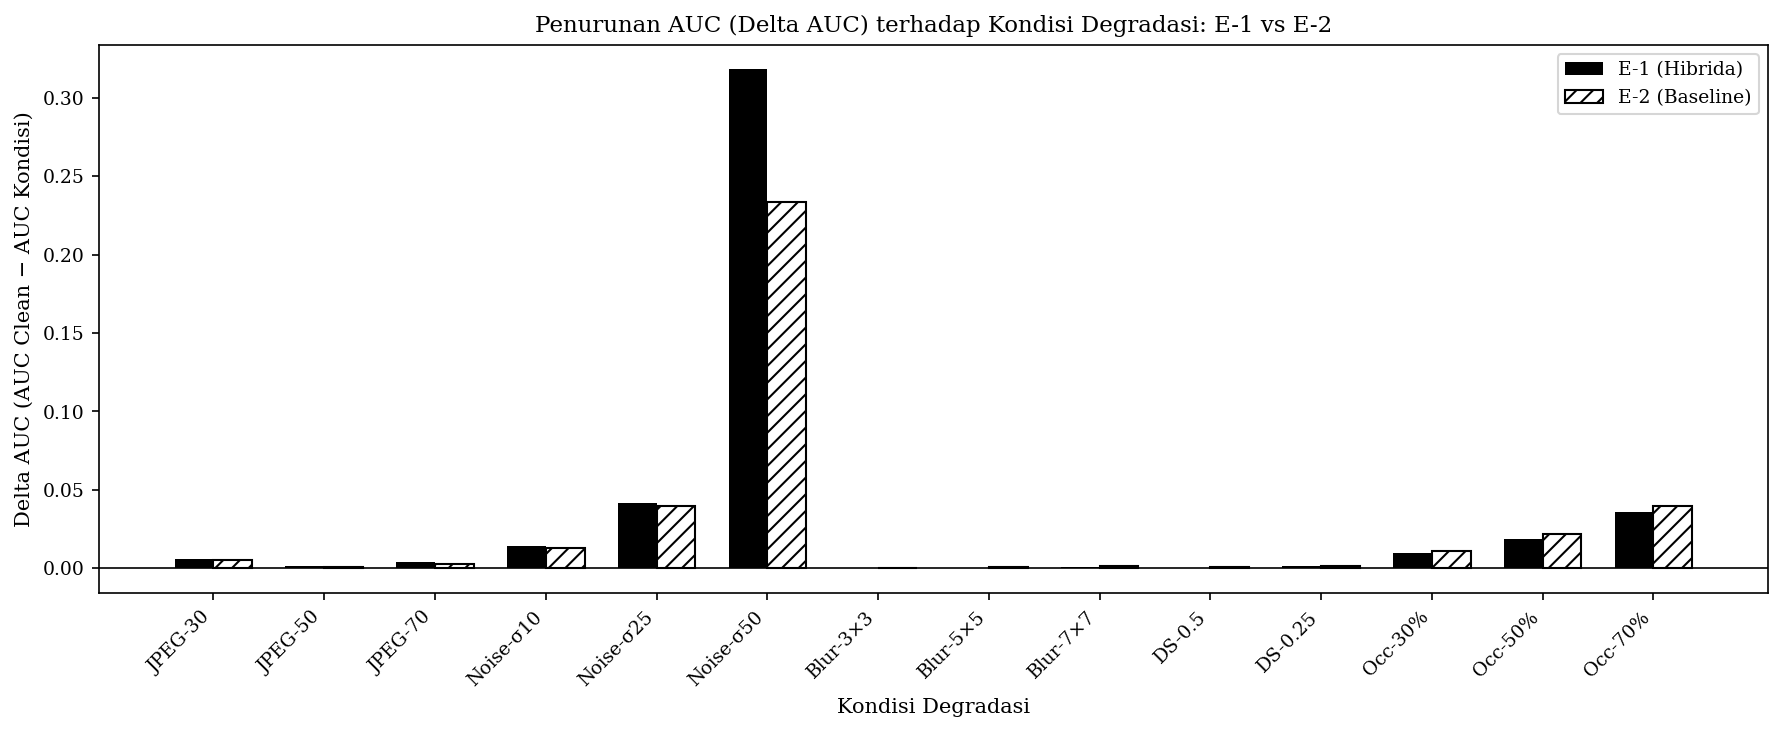
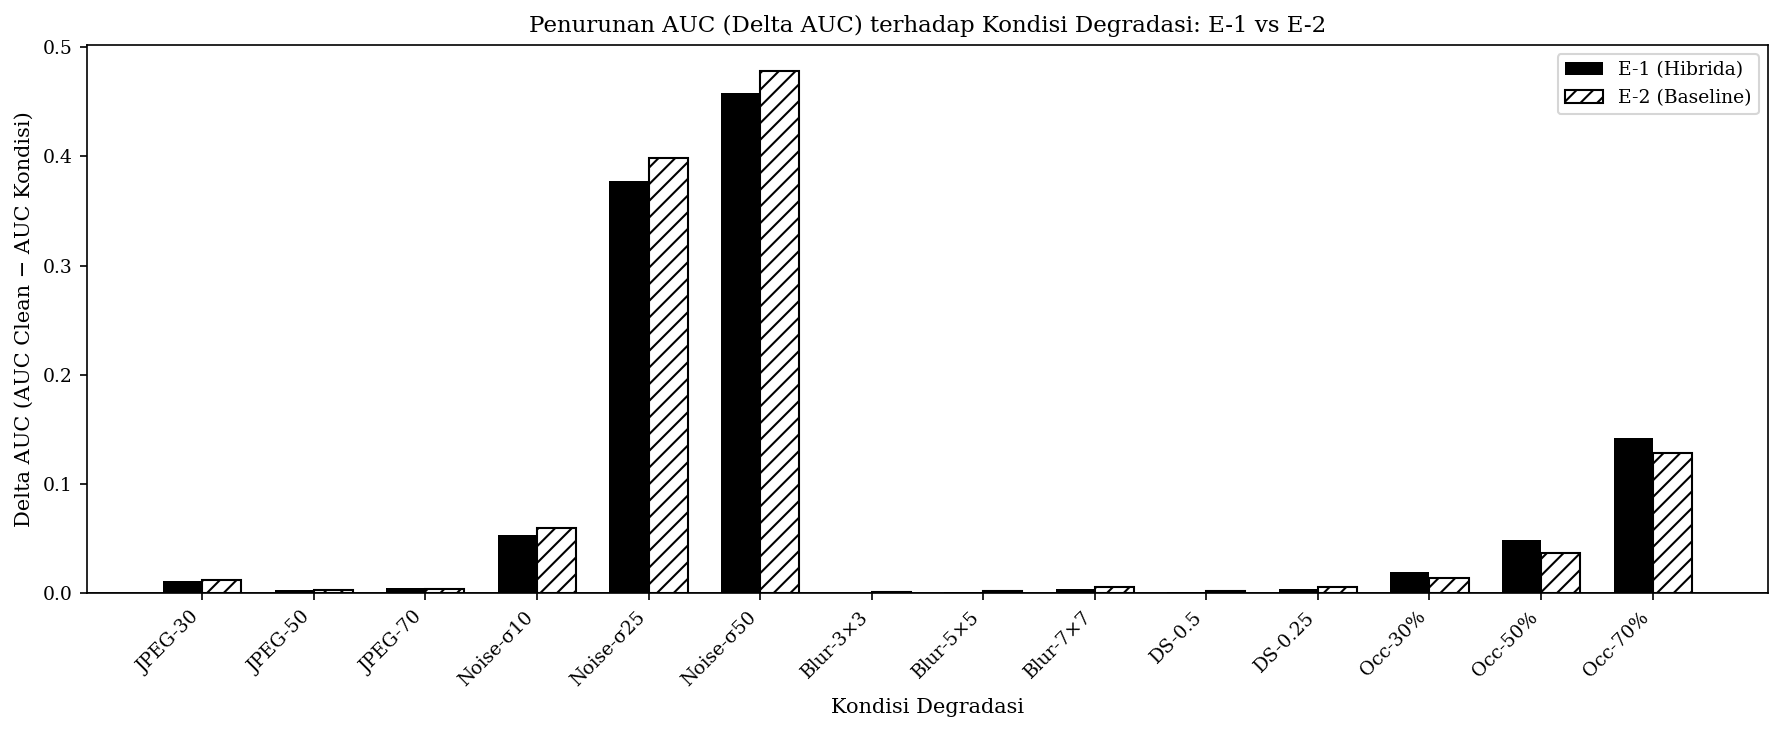
new results

diff --git a/src/analysis/common.py b/src/analysis/common.py
@@ -23,8 +23,8 @@ if str(_SRC_DIR) not in sys.path:
 # Path checkpoint aktual — ada di 'models/checkpoints/'
 _PROJECT_ROOT_COMMON = Path(__file__).resolve().parents[2]
 REAL_CKPT_DIR = _PROJECT_ROOT_COMMON / "models" / "checkpoints"
-CKPT_E1 = REAL_CKPT_DIR / "last_checkpoint.pth"
-CKPT_E2 = REAL_CKPT_DIR / "latest_no_dct.pth"
+CKPT_E1 = REAL_CKPT_DIR / "best_efficient_dct.pth"
+CKPT_E2 = REAL_CKPT_DIR / "best_efficient_no_dct.pth"
 
 from config import (
     CFG,
